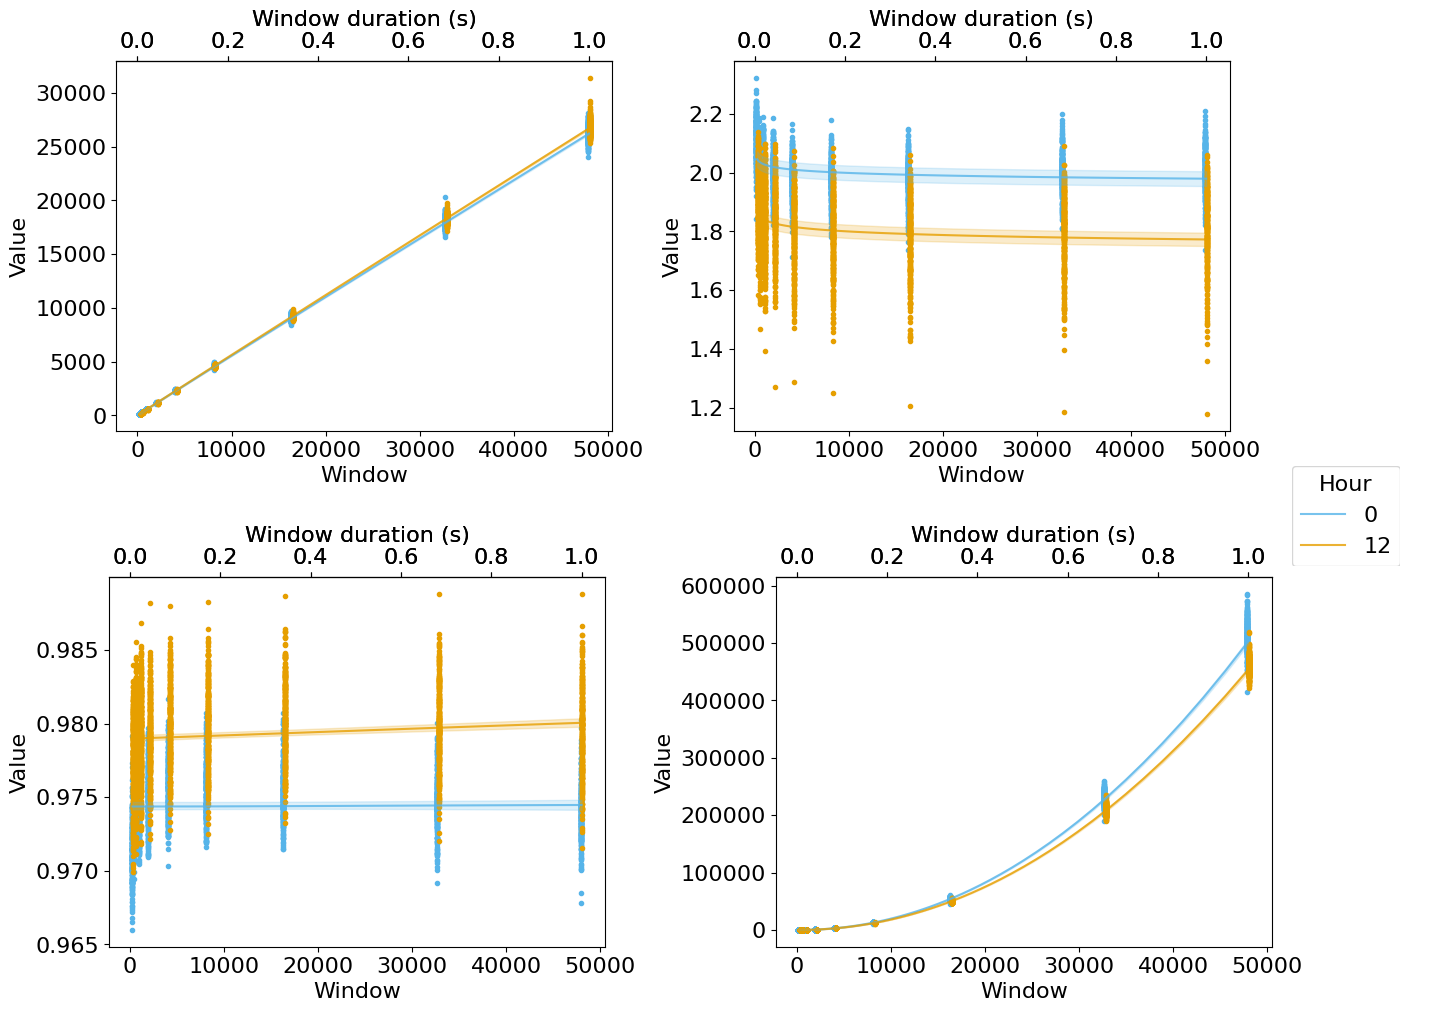
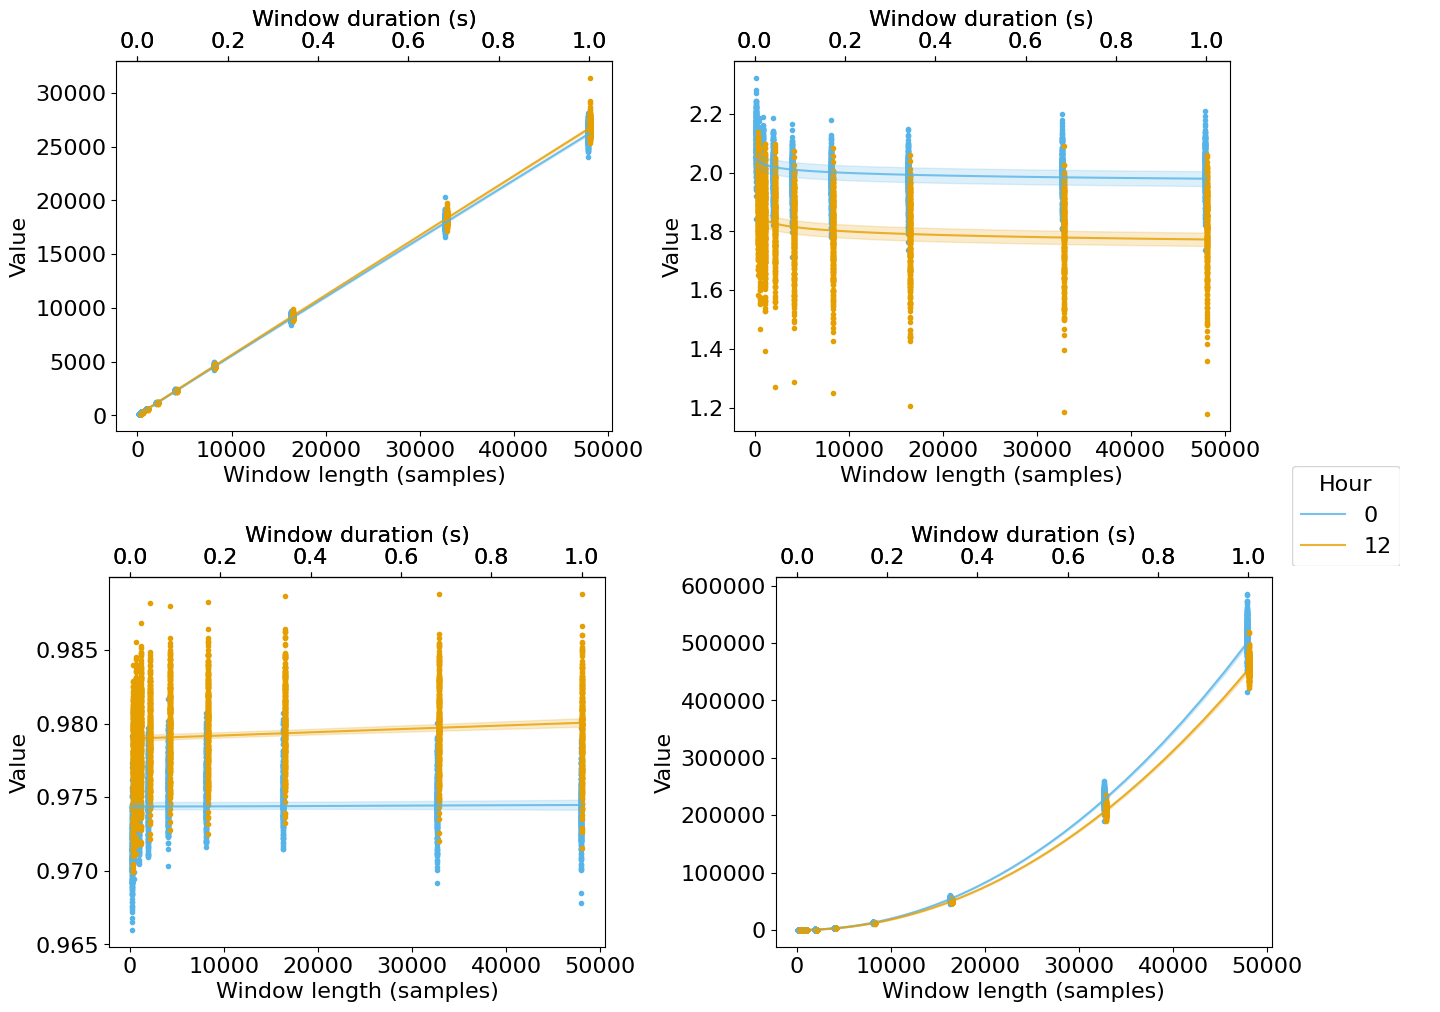
plot updates

diff --git a/tools/plot_combiner.py b/tools/plot_combiner.py
@@ -7,6 +7,8 @@ from math import ceil
 from pathlib import Path
 from tqdm import tqdm
 from PIL import Image
+import matplotlib
+import numpy as np
 
 class PlotCombiner:
     '''graph combining functions'''
@@ -35,23 +37,19 @@ class PlotCombiner:
             lgd.remove()
 
         ax = fig.gca()
-        ax.ticklabel_format()
-        # ax.ticklabel_format(style='sci', axis='y', scilimits=(-5,5))
-        t = ax.yaxis.get_offset_text()
-        text = t.get_text()
-        if text:
-            t.set_visible(False)
-            text = f"Value ($x10^{text[2:]}$)"
-            ax.set_ylabel(text)
+        if ax.get_xlabel() == "Window":
+            ax.set_xlabel("Window length (samples)")
+        # self.format_axis_numbers(ax)
 
         return fig, buf
 
     @classmethod
-    def export_legend(cls, legend, buf):
+    def export_legend(cls, legend, buf, fontsize=16):
+        cls.update_lgd_font_size(legend, fontsize)
         fig  = legend.figure
         fig.canvas.draw()
         bbox  = legend.get_window_extent().transformed(fig.dpi_scale_trans.inverted())
-        fig.savefig(buf, dpi="figure", bbox_inches=bbox)
+        fig.savefig(buf, bbox_inches=bbox)
 
     @classmethod
     def convert_plots_to_images(cls, plots):
@@ -63,7 +61,7 @@ class PlotCombiner:
             fig.savefig(buf, format="png", bbox_inches="tight")
             buf.seek(0)
             images.append(Image.open(buf))
-            if lgd_buf: 
+            if lgd_buf:
                 lgd = Image.open(lgd_buf)
                 lgds.append(lgd)
 
@@ -119,7 +117,7 @@ class PlotCombiner:
             new_im.paste(lgd, (x_offset,y_offset))
 
         return new_im
-            
+
     @classmethod
     def combine_figures(cls, plots, rows=2, imgs_per_row=None, spacing=20, include_lgd=True):
         '''combine graphs into one image. assumes all images same size if number of images does not equal rows * imgs_per_row'''
@@ -150,10 +148,55 @@ class PlotCombiner:
         return filenames
 
     @classmethod
-    def combine_plots(cls, filenames, output_folder, output_file_notation, max_figs_per_row=2):
+    def format_numbers_for_one_axis(cls, tg, ts, lg, ls):
+        labels = tg()
+        max_exponent = max([int("{:.2e}".format(x).split('e')[1]) for x in labels])
+        if max_exponent > 3:
+            new_labels = [int(x) / 10**max_exponent for x in labels]
+            ts(labels, new_labels)
+            label = lg()
+            ls(f"{label} (x10^{max_exponent})")
+
+    @classmethod
+    def format_axis_numbers(cls, ax):
+        cls.format_numbers_for_one_axis(ax.get_xticks,
+                                        ax.set_xticks,
+                                        ax.get_xlabel,
+                                        ax.set_xlabel)
+        cls.format_numbers_for_one_axis(ax.get_yticks,
+                                        ax.set_yticks,
+                                        ax.get_ylabel,
+                                        ax.set_ylabel)
+
+    @classmethod
+    def update_axis_font_size(cls, ax, size=16):
+        for item in ([ax.title, ax.xaxis.label, ax.yaxis.label] +
+            ax.get_xticklabels() + ax.get_yticklabels()):
+                item.set_fontsize(size)
+
+    @classmethod
+    def update_lgd_font_size(cls, lgd, size=16):
+        for text in lgd.texts:
+            text.set_fontsize(size)
+        lgd.get_title().set_fontsize(size)
+
+    @classmethod
+    def update_line_size(cls, ax, size=2.2):
+        lines = ax.get_lines()
+        for line in lines:
+            line.set_linewidth(size)
+
+    @classmethod
+    def combine_plots(cls, filenames, output_folder, output_file_notation, max_figs_per_row=2, increase_line_size=False):
         '''wrapper for graph combining process'''
         with PlotCombiner() as combiner:
             figs = [combiner.open_figure(x, bool(i)) for i, x in enumerate(filenames)]
+            for fig in figs:
+                ax = fig[0].axes[0]
+                cls.update_axis_font_size(ax)
+                if increase_line_size:
+                    cls.update_line_size(ax)
+
             n_figs = len(figs)
             rows = ceil(n_figs / max_figs_per_row)
             final_fig = cls.combine_figures(figs, rows, max_figs_per_row)
@@ -170,7 +213,7 @@ if __name__ == "__main__":
             return False
         if flt and "filtered"not in x:
             return False
-        
+
         return True
 
     combiner = PlotCombiner
@@ -185,21 +228,30 @@ if __name__ == "__main__":
         combiner.combine_plots(filenames, "output", f"{target}_{band}_{fltr}")
 
 
+    matplotlib.rcParams.update({'font.size': 16})
     filenames = [f"output/{x}_call frequency effect_rate_plot.pkl" for x in ["ACI", "ADI", "AEI", "BIO"]]
-    combiner.combine_plots(filenames, "output", f"frequency_all")
+    combiner.combine_plots(filenames, "output", f"frequency_all", increase_line_size=True)
 
     filenames = [f"output/{x}_call frequency effect_rate_plot.pkl" for x in ["ACI", "BIO"]]
-    combiner.combine_plots(filenames, "output", f"frequency_ACI_BIO")
+    combiner.combine_plots(filenames, "output", f"frequency_ACI_BIO", increase_line_size=True)
 
     filenames = ["output/Hour_x_Window_conditional_effects_for_AEI_over_filtered_shrimp_frequencies_Python.pkl",
                 "output/Hour_x_Window_conditional_effects_for_AEI_over_shrimp_frequencies_Python.pkl"]
     combiner.combine_plots(filenames, "output", f"shrimp_AEI")
-    
+
     filenames = ["output/Hour_x_Window_conditional_effects_for_ADI_over_filtered_fish_frequencies_Python.pkl",
                 "output/Hour_x_Window_conditional_effects_for_ADI_over_fish_frequencies_Python.pkl"]
     combiner.combine_plots(filenames, "output", f"fish_ADI")
-    
+
     filenames = [f"output/{freq}_Hz_{window}_FFT_simulated_calls.pkl" for freq in (1200, 12000) for window in (256, 4096)]
     combiner.combine_plots(filenames, "output", f"simulated")
 
-    
+    filename = "output/ACI_2048.pkl"
+    fig = pickle.load(open(filename, 'rb'))
+    ax = fig.axes[0]
+    PlotCombiner.update_axis_font_size(ax)
+    lgd = ax.get_legend()
+    PlotCombiner.update_lgd_font_size(lgd)
+    PlotCombiner.update_line_size(ax)
+    fig.savefig("output/ACI_2048_updated.png", bbox_inches="tight")
+
